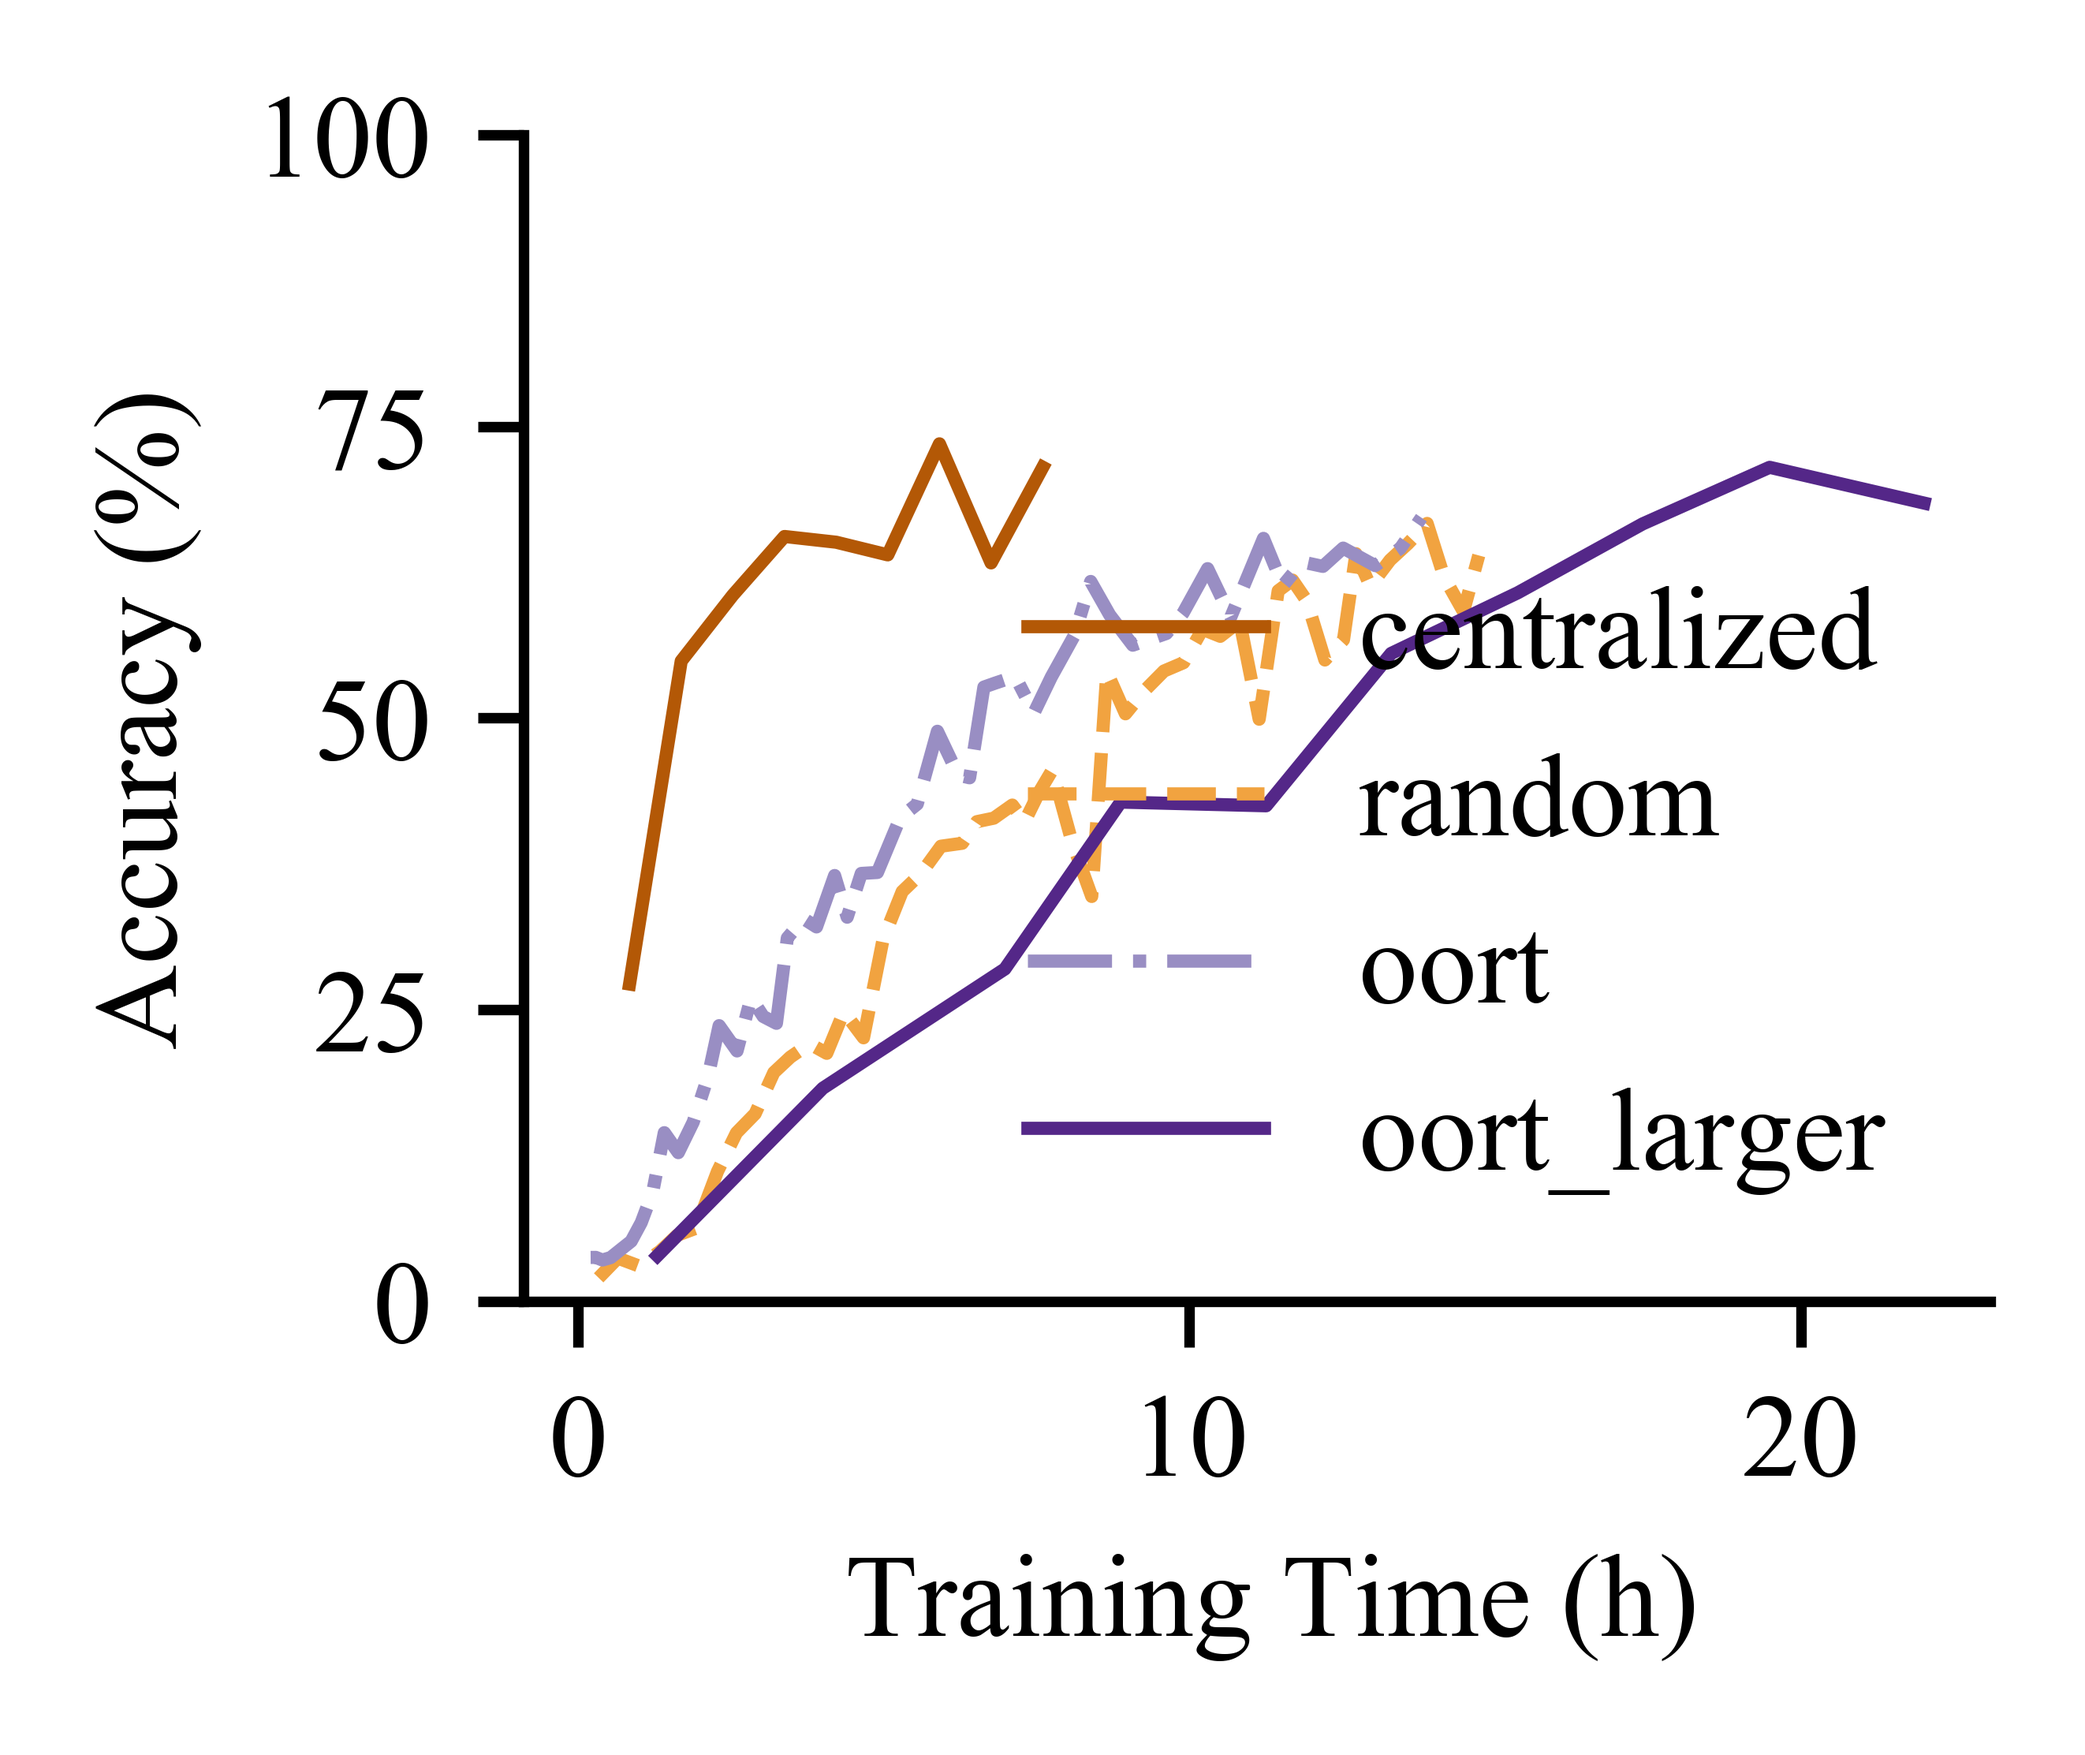
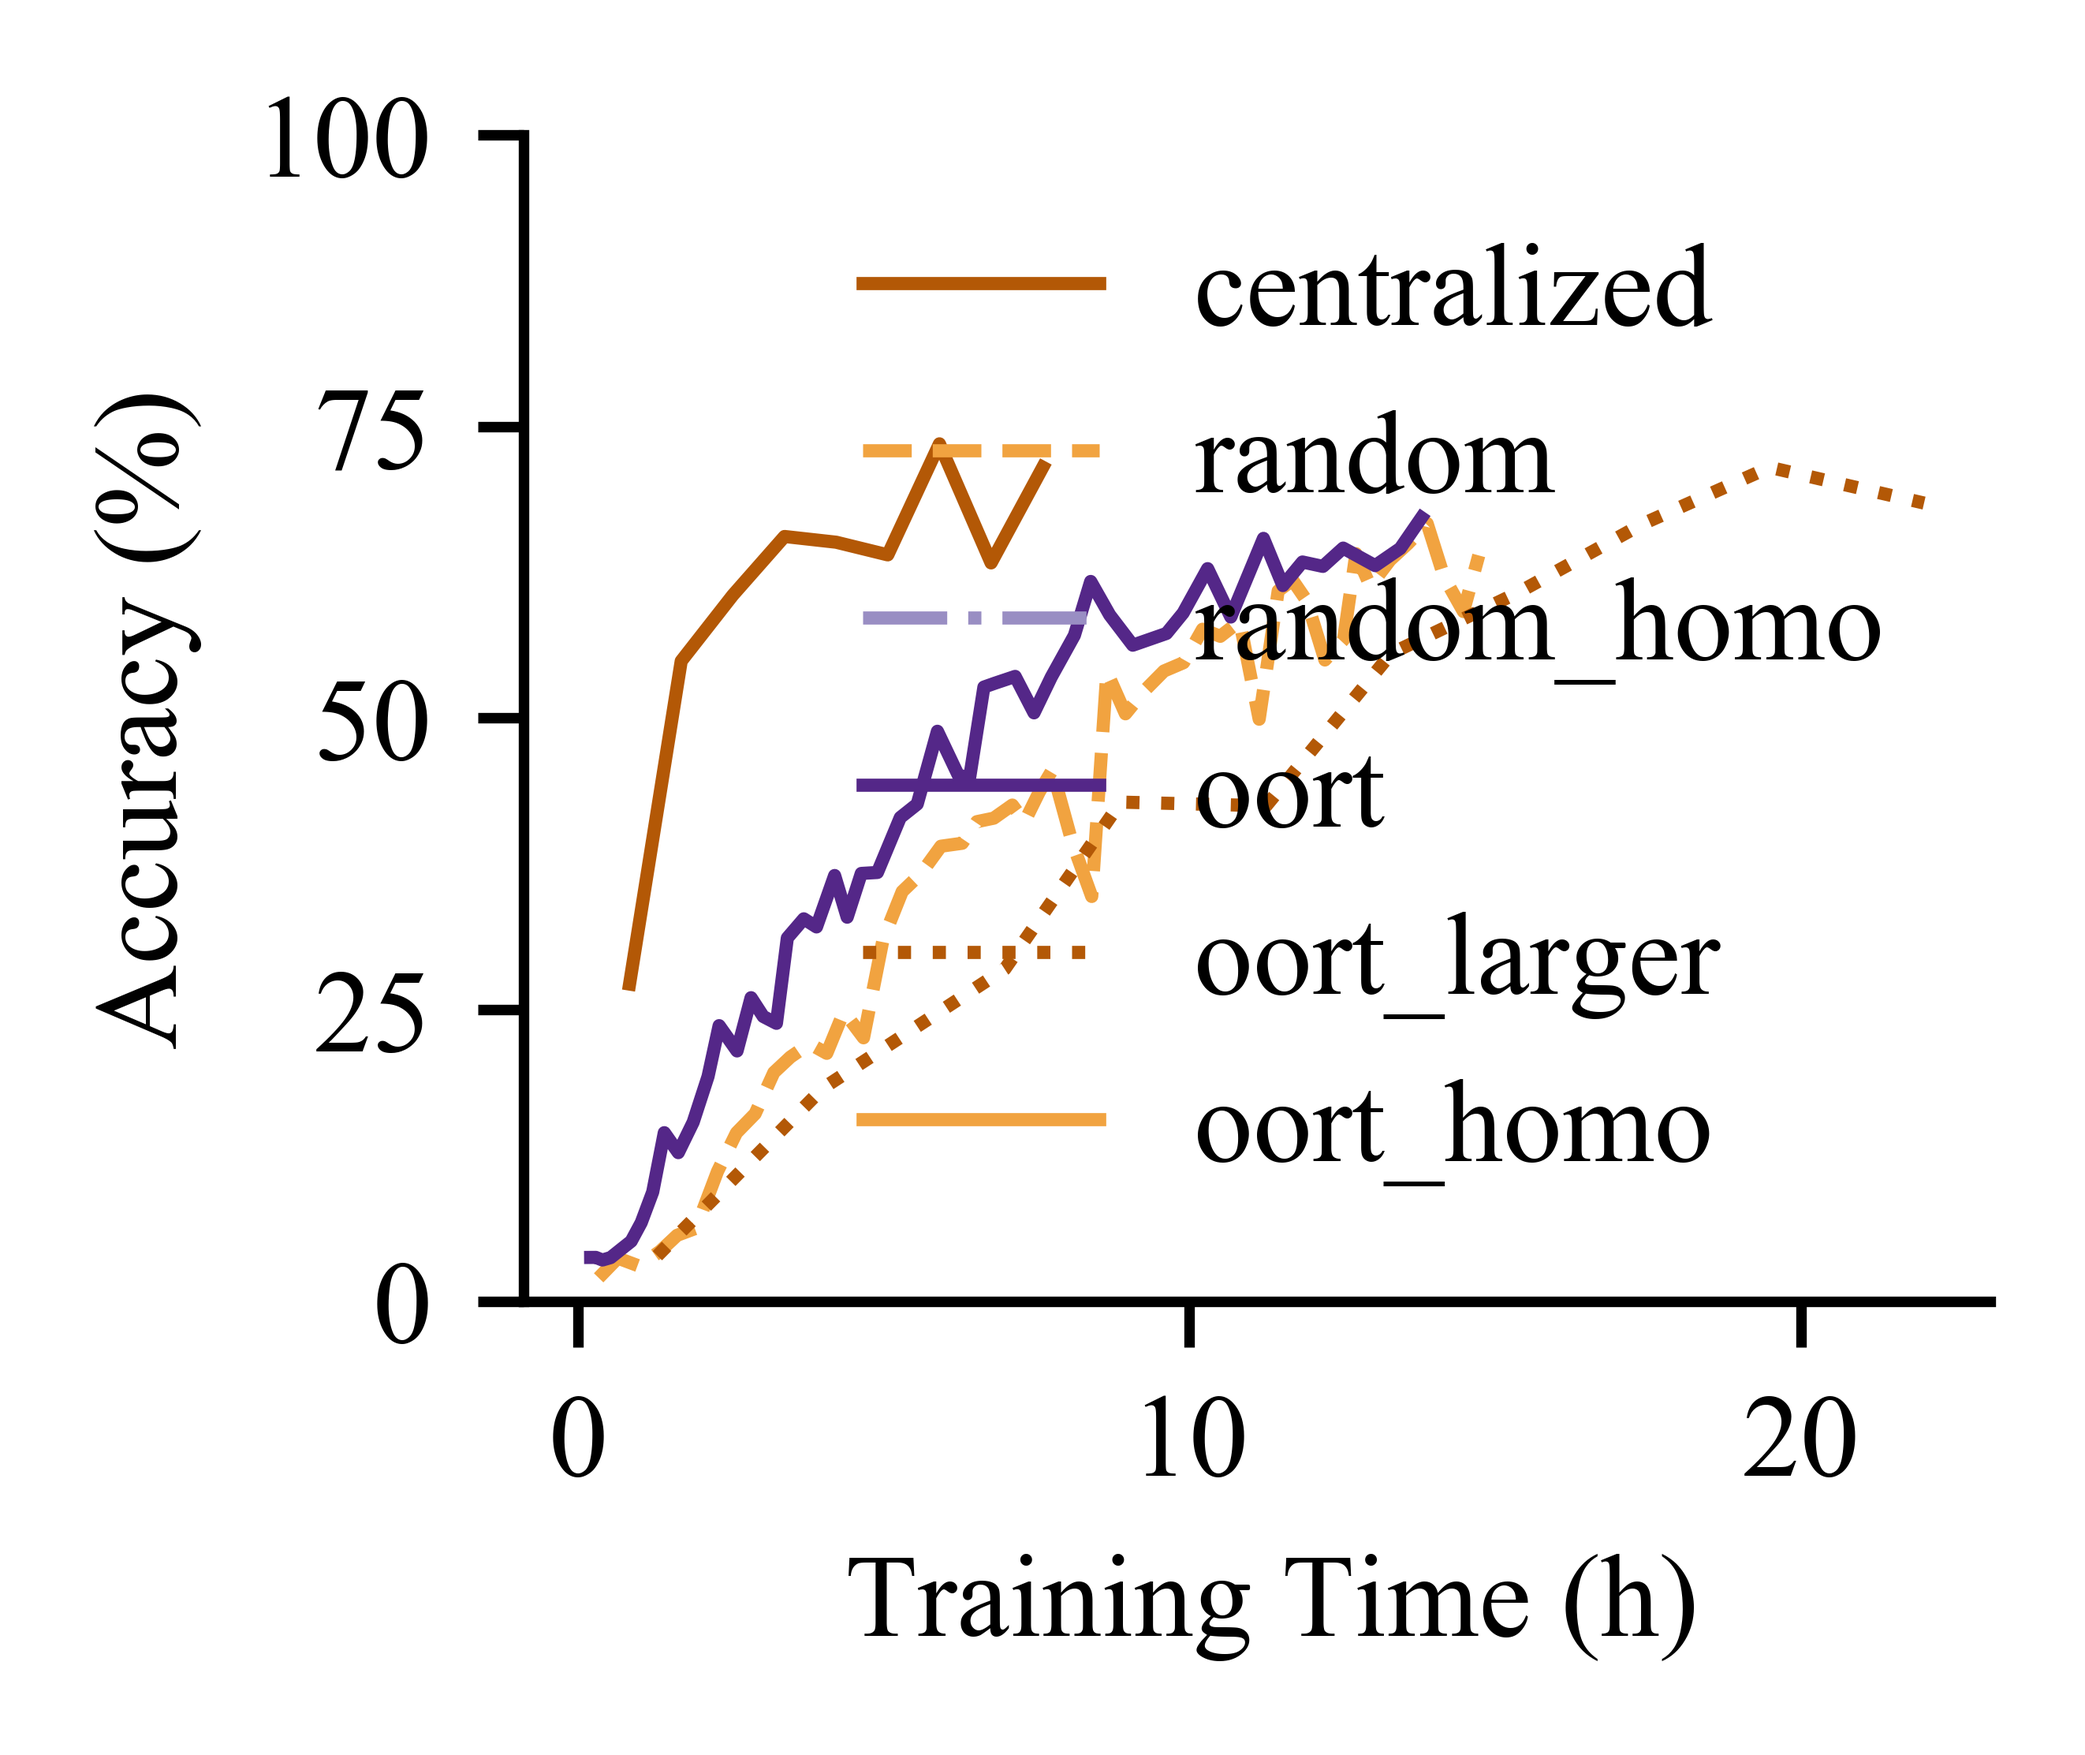
ms

diff --git a/core/evals/my_perf.py b/core/evals/my_perf.py
@@ -51,13 +51,13 @@ def plot_line(datas, xs, linelabels=None, label=None, y_label="CDF", name="my_pl
     plt.savefig(name, bbox_inches='tight')
 
 def run(task_prefix):
-    personalized = "ditto" # "meta" or "none" or "ditto"
+    personalized = "none" # "meta" or "none" or "ditto"
     task_dict = {
         f"centralized_{personalized}_all_test": "centralized",
         f"random_{personalized}_all_test": "random",
         f"random_homo_{personalized}_all_test": "random_homo",
         f"oort_{personalized}_all_test": "oort",
-        f"oort_adapted_{personalized}_all_test": "oort_adpated",
+        # f"oort_adapted_{personalized}_all_test": "oort_adpated",
         f"oort_larger_{personalized}_all_test": "oort_larger",
         f"oort_homo_{personalized}_all_test": "oort_homo",
         # f"greedy_{personalized}_all_test": "greedy"
